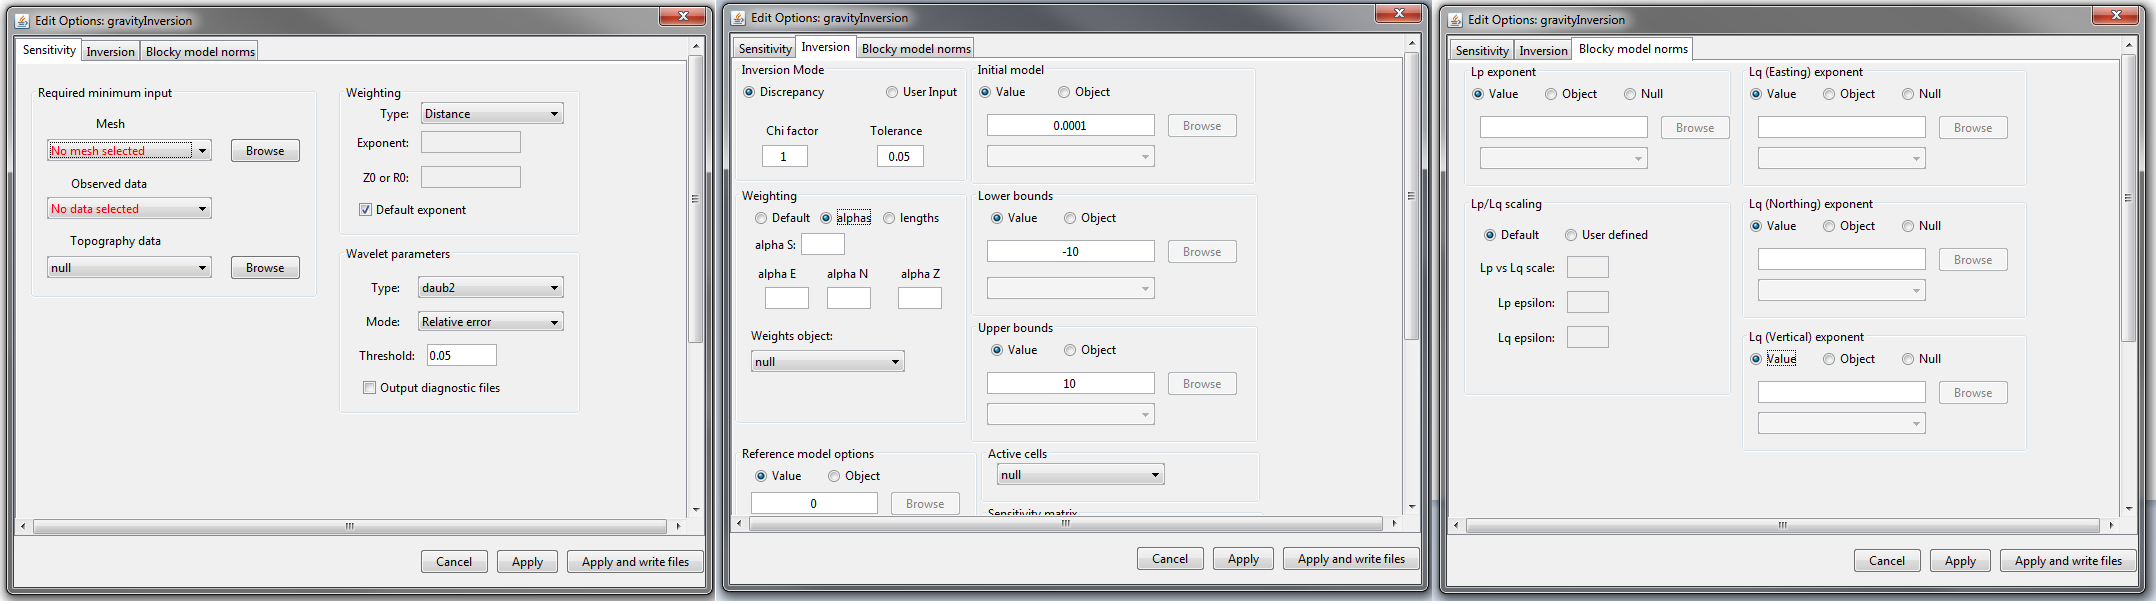
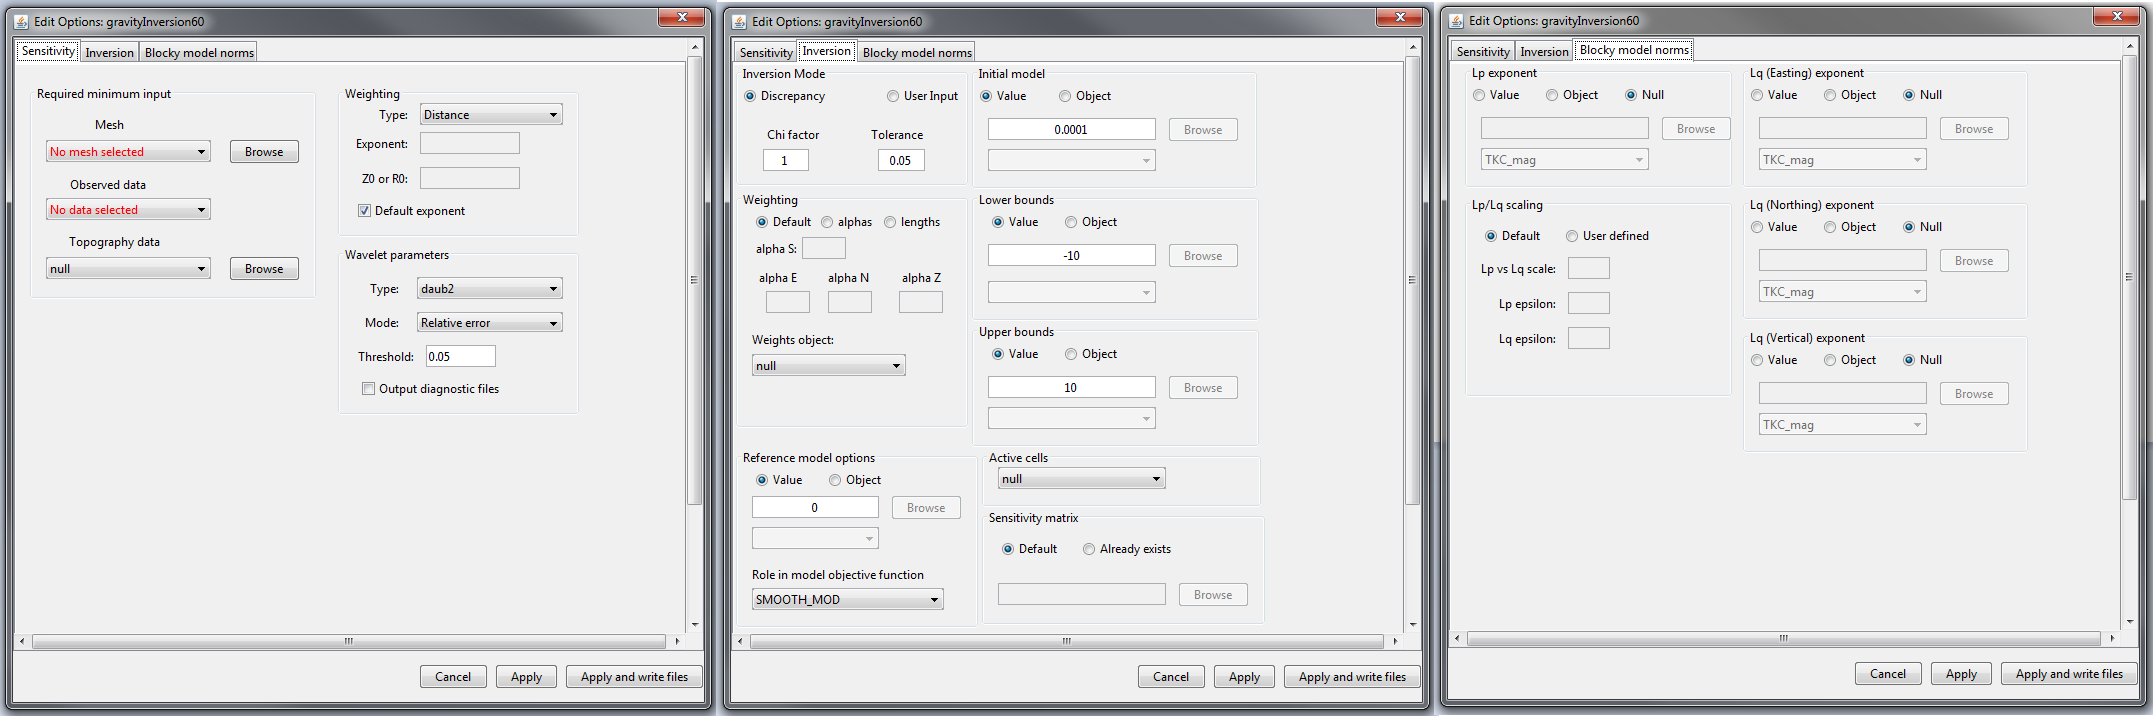
Add edit options for forward modeling and inversion of grav3d data

diff --git a/content/objectFunctionality/inversion/editOptions/gravity.rst b/content/objectFunctionality/inversion/editOptions/gravity.rst
@@ -25,8 +25,116 @@ This functionality is responsible for setting all inversion parameters pertainin
     Sensitivity (left), inversion (middle) and blocky model norms (right) tabs for GRAV inversion objects.
 
 
+Units
+^^^^^
+
+**Inputs:**
+
+    - **Observed data:** gravity anomaly data given in units of milliGal (*mGal*)
+    - **Reference/background density model:** :math:`g/cm^3`
+
+**Outputs:**
+
+    - **Recovered anomalous density model:** :math:`g/cm^3`
 
 
+Sensitivity Tab
+^^^^^^^^^^^^^^^
+
+    - **Mesh:** mesh for the recovered model
+
+    - **Observed data:** observed data including uncertainties
+
+    - **Topography:** a topography data object. Leave as *null* for flat topography at an elevation of 0 m.
+
+    - **Weighting:** set the type and parameters for sensitivity weighting. The parameters which define the sensitivity weighting are described in the `Grav3D manual <http://grav3d.readthedocs.io/en/latest/content/theory.html#depth-weighting-for-surface-or-airborne-data>`__ .
+
+        - **Type:** Depth or distance. The choice determines the expression used for the weighting
+        - **Exponent:** Given by :math:`\alpha` in the manual. This parameter has *default* = 2 to reflect the fact the fields fall of as :math:`1/r^2`
+        - **Z0 or R0:** These constants are defined by equations in the manual. **R0** and **Z0** are small and generally chosen to be 1/4 the length of the smallest cell dimension
+
+    - **Wavelet parameter:** wavelet compression of the sensitivity matrix is used reduced the memory requirements for storing the sensitivity matrix and improve the speed of the inversion algorithm. The details of this are described in the `Grav3D manual <http://grav3d.readthedocs.io/en/latest/content/theory.html#wavelet-compression-of-sensitivity-matrix>`__
+
+        - **Type:** sets the type of wavelet transform applied to the rows of the sensitivity matrix
+
+        - **Mode:**
+
+            - **Relative error:** the level of wavelet compression is specified by a relative threshold (*default* = 0.05)
+            - **Threshold:** the level of wavelet compression is specified an absolute threshold
+
+        - **Threshold:** user specified value based on choice in *mode*
+
+
+Inversion Tab
+^^^^^^^^^^^^^
+
+    - **Inversion Mode:** Sets the protocol for the trade-off parameter (:math:`\beta` )
+
+        - **Discrepancy:** sets the stopping criteria for the inversion using the :ref:`discrepancy principle <Fundamentals_Beta_Discrepancy>`. *Chi-factor* determines the stopping criteria and *tolerance* sets how close to the ideal stopping criteria before the inversion is terminated.
+        - **User Input:** the user specifies the exact value for the trade-off parameter (*beta* )
+
+    - **Weighting:** Sets the weights for smallness and smoothness regularization in x, y and z; for relevant equations `see manual <http://grav3d.readthedocs.io/en/latest/content/theory.html#inversion-methodology>`__ .
+
+        - **Default:** Sets the values of *alpha S*, *alpha X*, *alpha Y* and *alpha Z* based on cell dimensions
+        - **Alphas:** Sets specific values for *alpha S*, *alpha X*, *alpha Y* and *alpha Z*
+        - **Lengths:** User sets values *Len E*, *Len N* and *Len Z* which define the values of *alpha X*, *alpha Y* and *alpha Z* relative to *alpha S*. These relationships are given by :math:`L_x = \sqrt{\frac{\alpha_x}{\alpha_s}}`, :math:`L_y = \sqrt{\frac{\alpha_y}{\alpha_s}}` and :math:`L_z = \sqrt{\frac{\alpha_z}{\alpha_s}}`.
+
+    - **Weighting object:** Specify additional cell weights. Use *null* if no additional model weights are supplied.
+
+
+    - **Reference model options:**
+
+        - **Value:** use a constant value to define the reference model
+        - **Object:** use a GIFmodel as the reference model
+
+    - **Role in objective function:** the user selects *SMOOTH_MOD* or *SMOOTH_MOD_DIF*. If *SMOOTH_MOD* is selected, the reference model is included only in the smallness term in the model objective function. If *SMOOTH_MOD_DIF* is selected, the reference model is included in the smallness and smoothness terms in the model objective function. Further explanation of this is found in :ref:`fundamentals of inversion<Fundamentals_SmoothInDiff>`.
+
+    - **Initial model:**
+
+        - **Value:** use a constant value to define a homogeneous starting model
+        - **Object:** use a GIF model as the starting model
+
+    - **Lower bounds:**
+
+        - **Value:** set a constant value for the lower bounds for all cells
+        - **Object:** use a GIF model to supply cell-specific lower bounds
+
+    - **Upper bounds:**
+
+        - **Value:** set a constant value for the upper bounds for all cells
+        - **Object:** use a GIF model to supply cell-specific upper bounds
+
+    - **Active cells:** Specifies which cells lying below the surface topography are active during the inversion. All other cells remain fixed-valued (equal to starting model). Use *null* to set all cells lying below surface topography as active.
+
+    - **Sensitivity matrix:**
+
+        - **Default:** If this option is chosen, the code will generate the sensitivity matrix and save it to the working directory.
+        - **Already exists:** If the sensitivity matrix for your problem has already been created, this option allows the user to point to the sensitivity file and avoid recomputation
+
+
+
+Blocky Model Norms Tab (ver. 5.1 and 6.0)
+^^^^^^^^^^^^^^^^^^^^^^^^^^^^^^^^^^^^^^^^^
+
+Sparse and blocky model norms are explained in :ref:`fundamentals of inversion<Fundamentals_Norms>`. Below are parameter descriptions for fields within *edit options*.
+
+    - **Lp exponent:** 
+
+        - **Value:** set as a constant value :math:`p \in (0,2]`
+        - **Object:** use a GIF model to supply cell-specific values for :math:`p`
+        - **Null:** a default value of :math:`p=2` or :math:`q=2` is used
+
+    - **Lq exponent (Easting, Northing or Vertical):** 
+
+        - **Value:** set as a constant value :math:`p \in (0,2]` or :math:`q \in (0,2]`
+        - **Object:** use a GIF model to supply cell-specific values for :math:`p` or :math:`q`
+        - **Null:** a default value of :math:`p=2` or :math:`q=2` is used
+
+    - **Lp/Lq scaling:** the nature of these parameters are discussed in :ref:`fundamentals of inversion<Fundamentals_Norms>`
+
+        - **Lp vs Lq scale:** the user alter the weighting between smallness and smoothness while performing the sparse inversion. *Default* = 1.
+        - **Lp epsilon:** see :ref:`fundamentals of inversion<Fundamentals_Norms>`
+        - **Lq epsilon:** see :ref:`fundamentals of inversion<Fundamentals_Norms>`
 
 
 

diff --git a/content/objectFunctionality/forward/editOptions/gravity.rst b/content/objectFunctionality/forward/editOptions/gravity.rst
@@ -11,14 +11,41 @@ Edit Options for Gravity Forward Modeling Objects
 Grav3D
 ------
 
-This functionality is responsible for setting all forward modeling parameters pertaining to the "GRAV3D" forward modeling code; see `GRAV3D manual <http://grav3d.readthedocs.io/en/latest/>`__ . Within the edit options window, the user may set the following parameters:
+This functionality is responsible for setting all forward modeling parameters pertaining to the “gravfor3d”, "gravfor3d_51" and "gravfor3d_60" forward modeling codes; see `GRAV3D manual <http://grav3d.readthedocs.io/en/latest/>`__ . Within the edit options window, the user may set the following parameters:
+
+    - **Model:** A relative density model. Because the model is already associated with a mesh within GIFtools, the mesh does not need to be specified here.
+
+    - **Data locations:** Set the object which contains the observations locations.
+
+    - **Topography (optional):** The user may define the surface topography using a *TOPOdata* object. If the surface topography is flat and set at an elevation of 0 m, the user may set to *null*.
+
+    - **Apply:** The values and objects specified in each field are not set until the user has clicked *Apply*.
+
+
+.. figure:: ../images/grav3d.png
+    :align: center
+    :width: 250
+
+
+Units
+^^^^^
+
+**Inputs:**
+
+    - **Model:** a relative density model in units :math:`g/cm^3`
+
+**Outputs:**
+
+    - **Predicted data:** gravity anomaly in milliGal (*mGal* )
 
 
 
+.. _fwdEditOptions_GG:
 
-.. _fwdEditOptions_GravPDE:
+Gravity Gradiometry
+-------------------
 
-Grav PDE
---------
+
+
 
 
